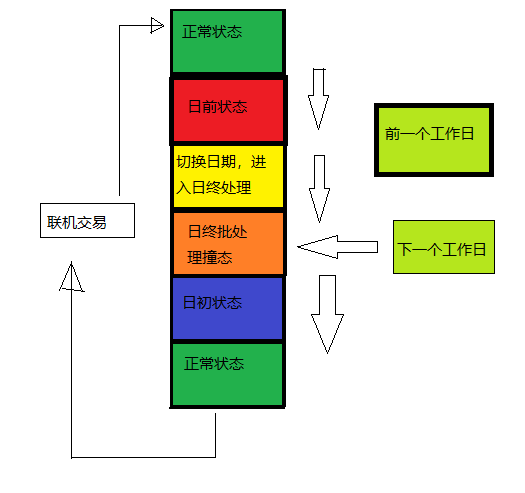
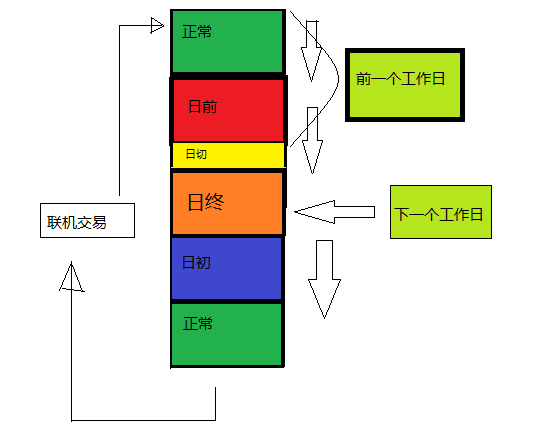
日切详细说明修改

Changed region(s): [[0.061, 0.0, 0.9448, 0.9817], [0.2438, 0.4462, 0.2743, 0.5355], [0.3962, 0.8924, 0.4267, 0.9519]]

diff --git a/交易.md b/交易.md
@@ -25,29 +25,37 @@
 
 - 准点日切
 
- 日前 ---> 日终批量 ---> 日初
+日前 --->日切 ---> 日终 ---> 日初
 
 ![](./picture/日切.png)
 
-结算采取两种方式进行日切：
-1. 到点采取读取时间表的方式进行切换
-2. 取同一个机器上的系统时间
+日期采取两种方式进行：
+ 1. 到点采取读取日期表的方式
+ 2. 取数据库机器上的系统日期
 
-分以下两种情况分别采取不同的上述两种结算方式:
-1. 在 12 点前日前结算跑批结束，此时采取上述两种任意一种方式都可以
-2. 日前在 12 点前计算没有跑批结束，则采取账目时间统计使用 T 日的结算方式
+分以下两种情况分别采取不同的上述两种方式:
+1. 在 12 点前日前跑批结束
+2. 日前在 12 点前日前跑批没有结束
 
 ![](./picture/日切跑批1.png)
 
-上述图片中，红色为日前跑批的时间，而粉红色为空挡时间，此时所有的联机交易都为 T 日， 而在 12 点后则计算为 T + 1, 批量交易要在日终跑批结束后才能计算为 T + 1
+红色为日前处理，日前处理在 12 点前跑完了，所以粉色为空挡期，这段时间虽然完成了日切，但是还没有到 12 点，所以联机交易的日期为 T 日，但日期不从日期表所取，由系统时间来决定，一旦到了 12 点则日期为 T + 1 日。
+
+在日前启动时，首先要将日期表中的 flag 设为 1 ，而在日切时将 flag 设为 0；从而使联机交易进来时知道自己所选取的日期来源。
+
+| flag | 日期表 | 系统日期 |
+| ---| --- | --- |
+| 0 | x | ✔ |
+| 1 | ✔ | x |
 
 ![](./picture/日切跑批2.png)
 
-上述图片中 红色 + 粉红色为日前跑批的时间，粉红色为超出日前跑批超过　12 点的时间，此时联机交易在 12 点前取当前系统时间，而日前跑批交易则为也为 T 取的日期为日期表的日期
+上述图片中 红色 + 粉红色为日前的时间，粉红色为超出日前超过  12  点的时间，此时进来的联机交易从日期表中获取均为 T 日，直到日切结束使用系统时间来记录日期为 T + 1 日。
 
 - 双余额机制
 
 将余额分为当前余额和上次更新余额
+
 ```
 分户处理：
 按照交易的日期分为次日，前日处理
